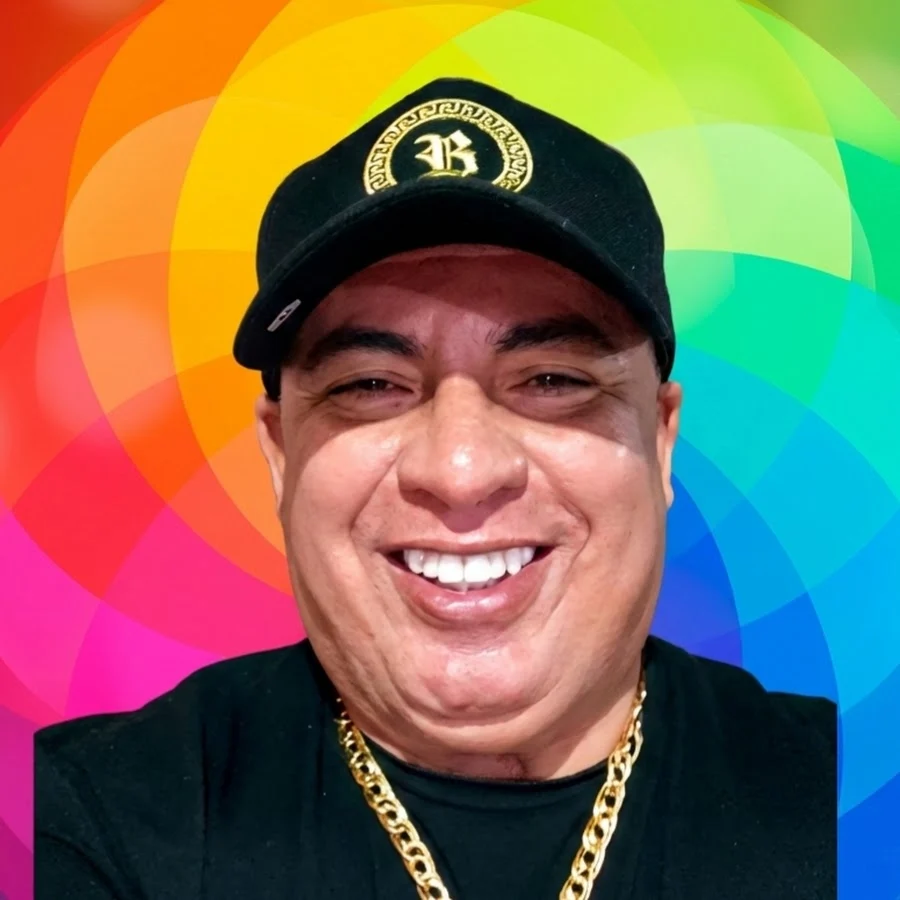
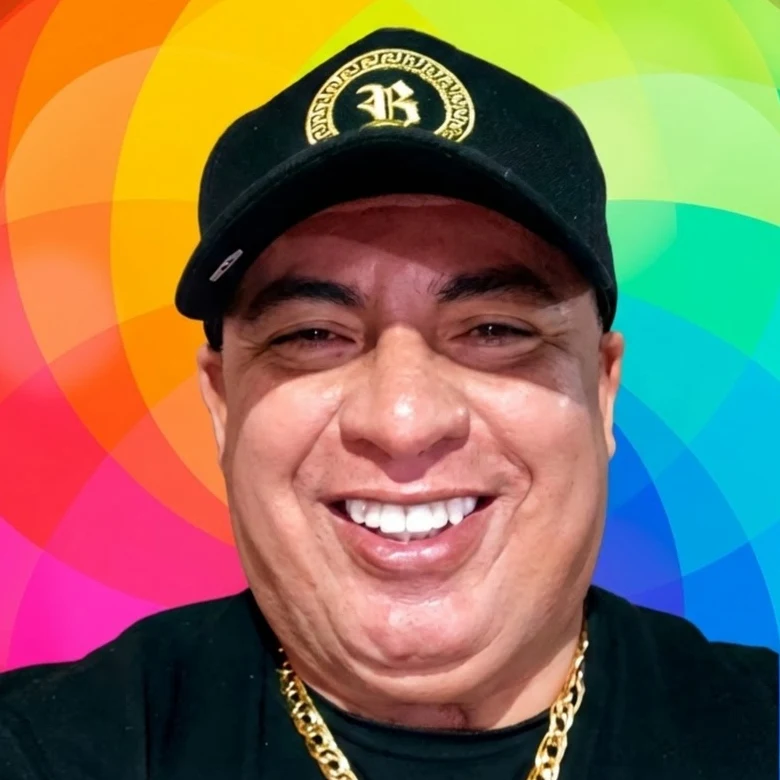
Fotos do Bonna sem corte reto nas laterais

diff --git a/styles.css b/styles.css
@@ -68,7 +68,7 @@ html.seen .poweron{display:none}
 .set-glow{position:absolute;inset:0;background:radial-gradient(30% 40% at 72% 30%,rgba(255,200,36,.28),transparent 70%)}
 .set-grid{position:absolute;inset:0;background:repeating-linear-gradient(0deg,rgba(255,255,255,.035) 0 1px,transparent 1px 4px);mix-blend-mode:overlay}
 .set-word{position:absolute;z-index:-1;right:-2%;top:6%;font-weight:900;font-variation-settings:"wdth" 125;font-size:clamp(6rem,21vw,19rem);line-height:.8;color:rgba(255,255,255,.07);letter-spacing:-.02em;white-space:nowrap;user-select:none}
-.host{position:absolute;right:4%;bottom:0;height:88%;width:auto;max-width:none;filter:drop-shadow(0 20px 40px rgba(0,0,0,.45))}
+.host{position:absolute;right:4%;bottom:0;height:88%;width:auto;max-width:none;-webkit-mask-image:linear-gradient(90deg,transparent 0,#000 16%,#000 84%,transparent 100%),linear-gradient(180deg,#000 70%,transparent 100%);-webkit-mask-composite:source-in;mask-image:linear-gradient(90deg,transparent 0,#000 16%,#000 84%,transparent 100%),linear-gradient(180deg,#000 70%,transparent 100%);mask-composite:intersect}
 .osd-top{position:absolute;left:3%;top:5%;display:flex;align-items:center;gap:10px;font-family:var(--mono);font-size:.78rem;font-weight:700;letter-spacing:.08em}
 .live{display:inline-flex;align-items:center;gap:7px;background:rgba(0,0,0,.55);padding:.45em .8em;border-radius:6px}
 .osd-ch{color:rgba(255,255,255,.75)}
@@ -105,7 +105,7 @@ a.slate-link:hover{color:var(--gold)}
 /* perfil */
 .perfil{display:grid;grid-template-columns:minmax(0,5fr) minmax(0,7fr);gap:clamp(28px,5vw,72px);align-items:center}
 .perfil-photo{position:relative;border-radius:var(--r);overflow:hidden;border:1px solid var(--line-2)}
-.perfil-photo img{width:100%;aspect-ratio:1;object-fit:cover}
+.perfil-photo img{width:100%;aspect-ratio:1;object-fit:cover;object-position:50% 50%}
 .perfil-photo figcaption{position:absolute;left:14px;bottom:14px;background:rgba(8,7,13,.82);font-family:var(--mono);font-size:.75rem;padding:.4em .7em;border-radius:6px;letter-spacing:.06em}
 .perfil-photo figcaption span{color:var(--red);font-weight:700;margin-right:.4em}
 .ficha{margin-top:2rem;border-top:1px solid var(--line-2)}

diff --git a/index.html b/index.html
@@ -13,7 +13,7 @@
 <link rel="preconnect" href="https://fonts.googleapis.com">
 <link rel="preconnect" href="https://fonts.gstatic.com" crossorigin>
 <link href="https://fonts.googleapis.com/css2?family=Archivo:wdth,wght@62..125,400..900&family=JetBrains+Mono:wght@500;700&display=swap" rel="stylesheet">
-<link rel="stylesheet" href="styles.css?v=3">
+<link rel="stylesheet" href="styles.css?v=4">
 </head>
 <body>
 
@@ -91,7 +91,7 @@
     <header class="slate"><span class="slate-ch">CH 01</span><span class="slate-t">Perfil</span><span class="slate-line"></span></header>
     <div class="perfil">
       <figure class="perfil-photo">
-        <img src="img/bonna-perfil.webp" alt="Retrato do Bonna sorrindo, fundo colorido" width="900" height="900" loading="lazy">
+        <img src="img/bonna-perfil.webp" alt="Retrato do Bonna sorrindo, fundo colorido" width="780" height="780" loading="lazy">
         <figcaption><span>REC</span> Bonna do SBT</figcaption>
       </figure>
       <div class="perfil-txt">
